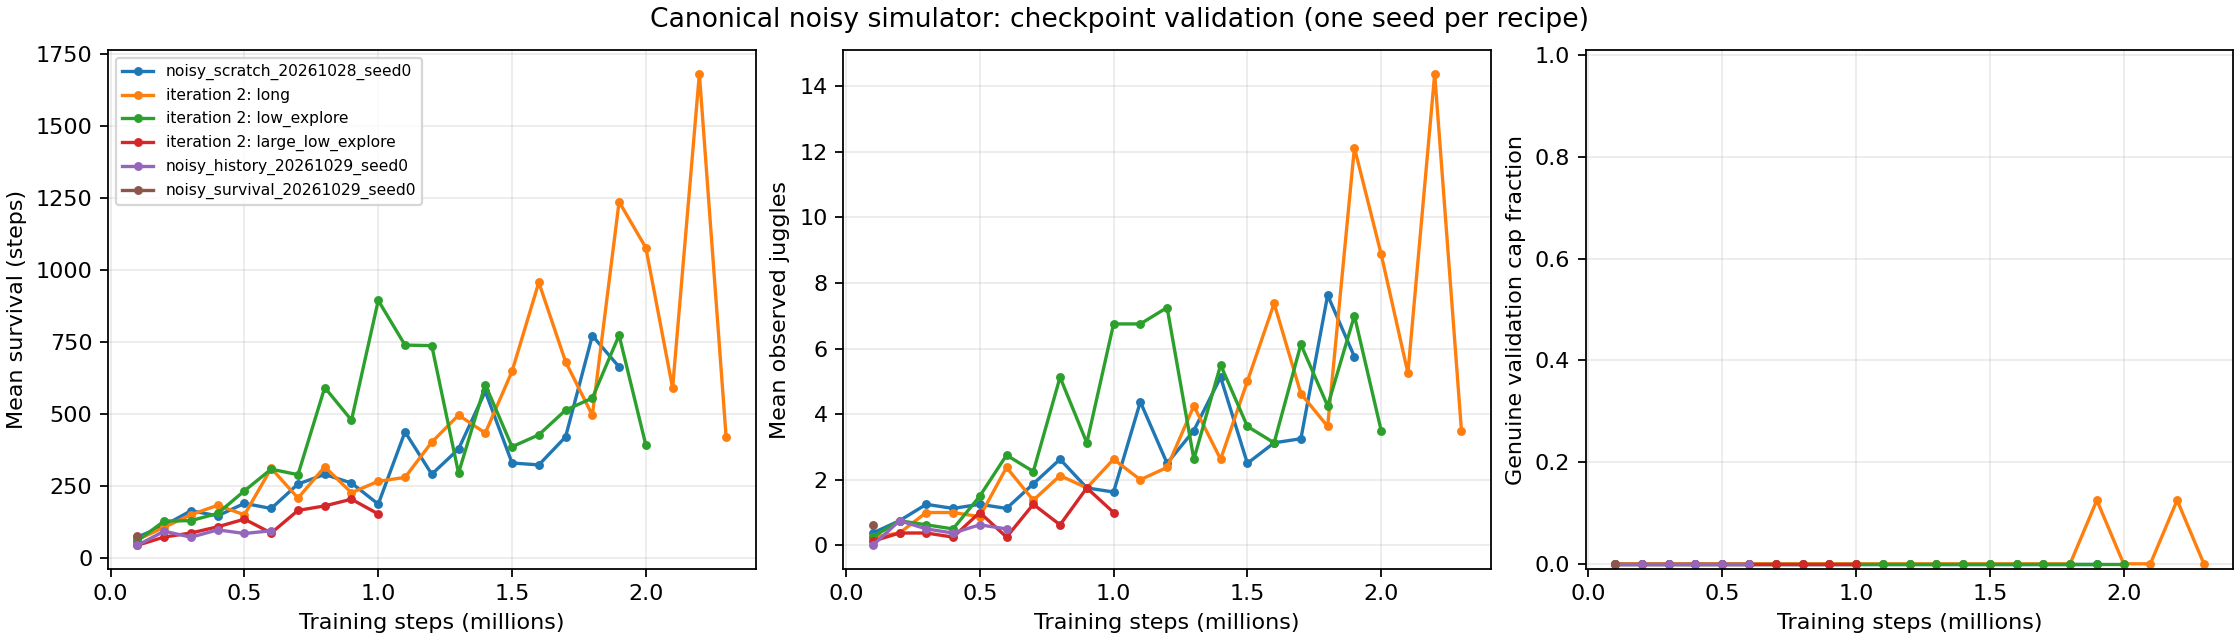
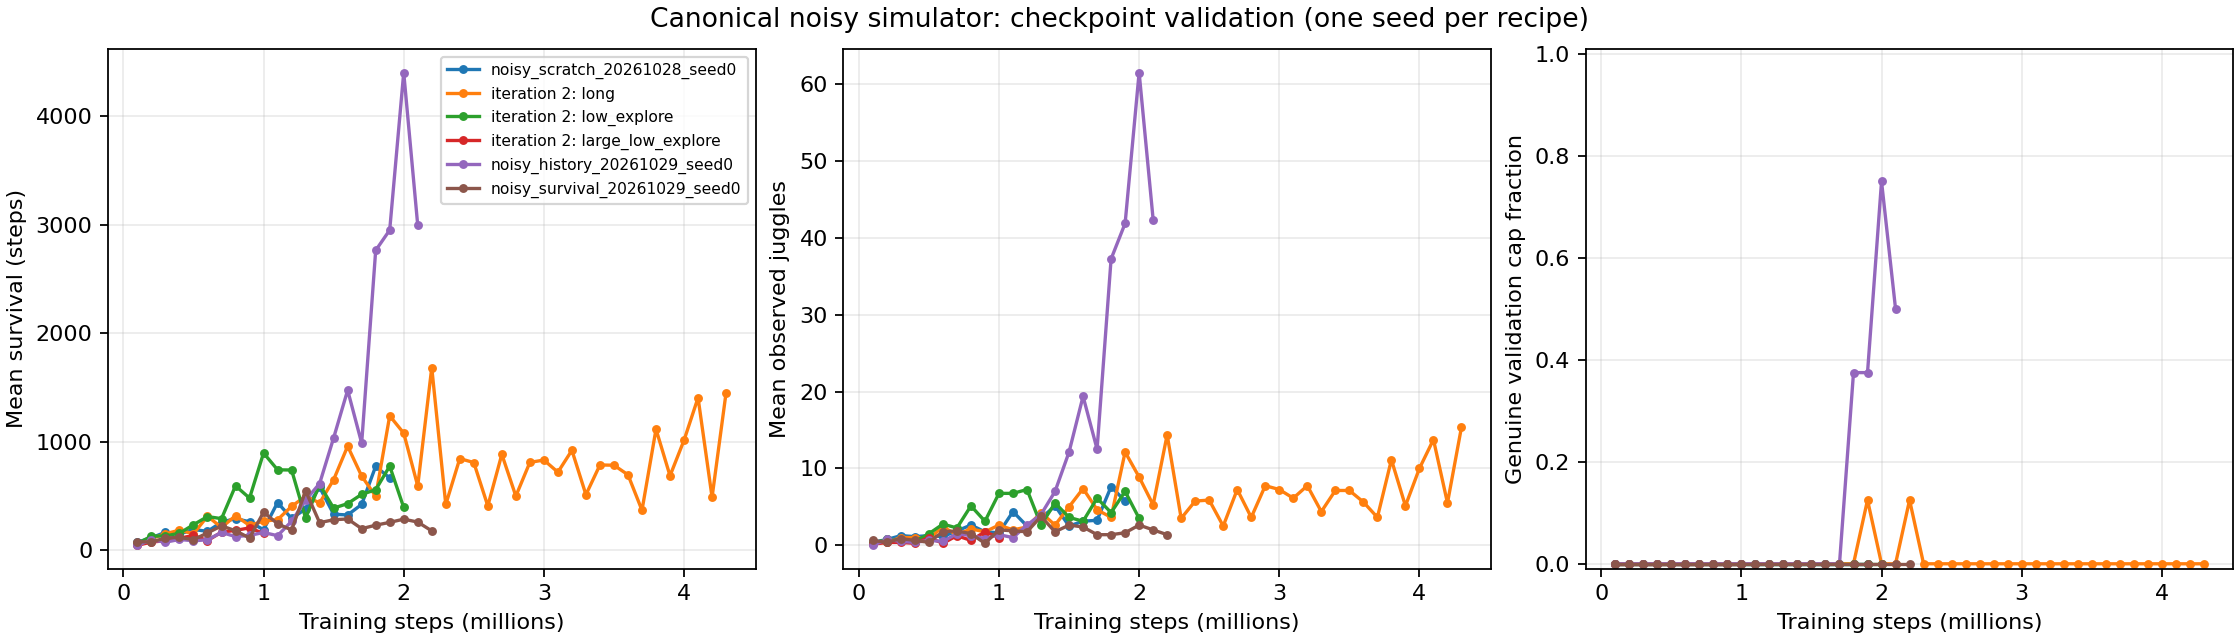
Record history-policy gains and independent survival failures with GIFs

diff --git a/scripts/analysis/juggle_progress.py b/scripts/analysis/juggle_progress.py
@@ -92,13 +92,21 @@ def write_report(roots, out):
             lines.append(f"| {root.name} | {status} | No saved validation | — | — | — |")
     lines += ["", "Separate-start evaluations (selection and benchmark phases labeled):", ""]
     for root, _ in series:
-        for directory, phase in (("final_eval", "final actor benchmark"),
-                                 ("selected_eval", "validation-selected checkpoint benchmark"),
-                                 ("selected_paired_eval", "paired selected checkpoint"),
-                                 ("final_paired_eval", "paired final actor")):
+        phases = [("final_eval", "final actor benchmark"),
+                  ("selected_eval", "validation-selected checkpoint benchmark"),
+                  ("selected_paired_eval", "paired selected checkpoint"),
+                  ("final_paired_eval", "paired final actor")]
+        known = {directory for directory, _ in phases}
+        for result in sorted(root.glob("*/results.json")):
+            directory = result.parent.name
+            if directory not in known and "stretch" not in directory and "diagnostic" not in directory:
+                phases.append((directory, directory.replace("_", " ")))
+        for directory, phase in phases:
             result = root / directory / "results.json"
             if result.exists():
                 payload = json.loads(result.read_text())
+                if "training" not in payload.get("scenarios", {}):
+                    continue
                 s = payload["scenarios"]["training"]["summary"]
                 true_count = (f", {s['mean_true_state_juggles']:.2f} physical-trajectory juggles"
                               if "mean_true_state_juggles" in s else "")

diff --git a/docs/juggling-noisy-progress.md b/docs/juggling-noisy-progress.md
@@ -1,6 +1,6 @@
 # Noisy juggling progress
 
-Generated 2026-10-29T18:52:13.641989+00:00 from saved evaluations; no new rollouts.
+Generated 2026-10-29T20:12:18.125723+00:00 from saved evaluations; no new rollouts.
 
 Validation curves use repeatedly evaluated starts, not independent acceptance tests. Each point is an episode mean for one training seed. Check the CSV for episode counts, seeds and caps. Observed juggle counts use noisy camera positions and a direction-reversal filter. Contact timesteps are not distinct juggles. Cap fractions use the physical-trajectory heuristic when available, otherwise the legacy observed-count heuristic.
 
@@ -11,18 +11,26 @@ Validation curves use repeatedly evaluated starts, not independent acceptance te
 | Run | Runner status | Latest validation step | Mean survival | Mean juggles | Genuine cap fraction |
 |---|---|---:|---:|---:|---:|
 | noisy_scratch_20261028_seed0 | complete | 1,900,000 | 663.4 | 5.75 | 0.0% |
-| noisy_iteration2_20261029_long | training | 2,300,000 | 419.8 | 3.50 | 0.0% |
+| noisy_iteration2_20261029_long | training | 4,300,000 | 1450.6 | 15.38 | 0.0% |
 | noisy_iteration2_20261029_low_explore | interrupted | 2,000,000 | 392.0 | 3.50 | 0.0% |
 | noisy_iteration2_20261029_large_low_explore | interrupted | 1,000,000 | 152.6 | 1.00 | 0.0% |
-| noisy_history_20261029_seed0 | training | 600,000 | 94.2 | 0.50 | 0.0% |
-| noisy_survival_20261029_seed0 | training | 100,000 | 76.4 | 0.62 | 0.0% |
+| noisy_history_20261029_seed0 | training | 2,100,000 | 2992.8 | 42.38 | 50.0% |
+| noisy_survival_20261029_seed0 | training | 2,200,000 | 176.1 | 1.38 | 0.0% |
 
 Separate-start evaluations (selection and benchmark phases labeled):
 
 - [noisy_scratch_20261028_seed0, final actor benchmark](../runs/td3/noisy_scratch_20261028_seed0/final_eval/results.json): 416.1 mean steps, 3.78 observed juggles, 0.0% cap completion; 32 starts from seed 200000, cap 10000.
 - [noisy_scratch_20261028_seed0, paired selected checkpoint](../runs/td3/noisy_scratch_20261028_seed0/selected_paired_eval/results.json): 816.9 mean steps, 7.41 observed juggles, 7.75 physical-trajectory juggles, 0.0% cap completion; 32 starts from seed 300000, cap 10000.
 - [noisy_scratch_20261028_seed0, paired final actor](../runs/td3/noisy_scratch_20261028_seed0/final_paired_eval/results.json): 415.3 mean steps, 3.28 observed juggles, 3.84 physical-trajectory juggles, 0.0% cap completion; 32 starts from seed 300000, cap 10000.
+- [noisy_iteration2_20261029_long, first cap benchmark](../runs/td3/noisy_iteration2_20261029_long/first_cap_benchmark/results.json): 827.9 mean steps, 7.16 observed juggles, 7.53 physical-trajectory juggles, 0.0% cap completion; 32 starts from seed 300000, cap 10000.
+- [noisy_iteration2_20261029_long, milestone 2m benchmark](../runs/td3/noisy_iteration2_20261029_long/milestone_2m_benchmark/results.json): 1017.3 mean steps, 8.03 observed juggles, 9.44 physical-trajectory juggles, 0.0% cap completion; 32 starts from seed 300000, cap 10000.
+- [noisy_iteration2_20261029_long, through3m selected benchmark](../runs/td3/noisy_iteration2_20261029_long/through3m_selected_benchmark/results.json): 920.3 mean steps, 7.81 observed juggles, 8.78 physical-trajectory juggles, 0.0% cap completion; 32 starts from seed 300000, cap 10000.
 - [noisy_iteration2_20261029_low_explore, validation-selected checkpoint benchmark](../runs/td3/noisy_iteration2_20261029_low_explore/selected_eval/results.json): 824.4 mean steps, 7.12 observed juggles, 7.91 physical-trajectory juggles, 0.0% cap completion; 32 starts from seed 400000, cap 10000.
+- [noisy_iteration2_20261029_low_explore, matched history 1m6 benchmark](../runs/td3/noisy_iteration2_20261029_low_explore/matched_history_1m6_benchmark/results.json): 580.2 mean steps, 4.62 observed juggles, 4.88 physical-trajectory juggles, 0.0% cap completion; 32 starts from seed 300000, cap 10000.
+- [noisy_iteration2_20261029_low_explore, milestone 1m benchmark](../runs/td3/noisy_iteration2_20261029_low_explore/milestone_1m_benchmark/results.json): 695.4 mean steps, 5.44 observed juggles, 6.09 physical-trajectory juggles, 0.0% cap completion; 32 starts from seed 300000, cap 10000.
+- [noisy_iteration2_20261029_low_explore, milestone 2m benchmark](../runs/td3/noisy_iteration2_20261029_low_explore/milestone_2m_benchmark/results.json): 664.4 mean steps, 5.25 observed juggles, 6.06 physical-trajectory juggles, 0.0% cap completion; 32 starts from seed 300000, cap 10000.
 - [noisy_iteration2_20261029_large_low_explore, validation-selected checkpoint benchmark](../runs/td3/noisy_iteration2_20261029_large_low_explore/selected_eval/results.json): 225.8 mean steps, 1.62 observed juggles, 1.94 physical-trajectory juggles, 0.0% cap completion; 32 starts from seed 400000, cap 10000.
+- [noisy_history_20261029_seed0, independent 1m6 20k eval](../runs/td3/noisy_history_20261029_seed0/independent_1m6_20k_eval/results.json): 3606.7 mean steps, 46.50 observed juggles, 51.66 physical-trajectory juggles, 0.0% cap completion; 32 starts from seed 500000, cap 20000.
+- [noisy_history_20261029_seed0, milestone 1m6 benchmark](../runs/td3/noisy_history_20261029_seed0/milestone_1m6_benchmark/results.json): 3519.4 mean steps, 45.16 observed juggles, 51.31 physical-trajectory juggles, 9.4% cap completion; 32 starts from seed 300000, cap 10000.
 
 The final-start benchmark is reused across recipes. A selected policy requires untouched seeds and longer horizons before acceptance. Bounded survival does not prove infinite survival.

diff --git a/notes/scratch/experiments/2026-10-29_20-15_history-benchmark-independent.md b/notes/scratch/experiments/2026-10-29_20-15_history-benchmark-independent.md
@@ -1,0 +1,44 @@
+# Scratch history policy: matched and independent evaluations
+
+Recorded 2026-10-29 15:15:24 -0500; evaluation timestamps are available in local artifacts. All evaluations below completed; three training runs remain active. No simulator changes or new training launches in this task.
+
[1 lines of base64/hex data omitted]
+
+| Frozen policy | Seeds / horizon | Mean steps | Median | Physical juggles | Genuine caps |
+|---|---|---:|---:|---:|---:|
+| History 1.6M | 300000–300031 / 10000 | 3519.375 | 2103 | 51.3125 | 3/32 |
+| Matched feed-forward low exploration 1.6M | Same | 580.21875 | 394 | 4.875 | 0/32 |
+| Baseline validation-selected through 3M (2.2M checkpoint) | Same | 920.3125 | 634.5 | 8.78125 | 0/32 |
+| History 1.6M, independent test | 500000–500031 / 20000 | 3606.6875 | 2010.5 | 51.65625 | 0/32 |
+
+The shared benchmark has been reused across recipes. Paired history minus matched control mean difference: 2939.15625 steps; paired bootstrap 10,000 resamples, NumPy default_rng(42), 95% interval [1760.0390625, 4203.165625]; 25/32 wins. Single training seed; history architecture/trainer changes both actor and critic context, so this does not isolate critic memory. Physical juggle counts use read-only body trajectories and a heuristic, not exact distinct-contact instrumentation.
+
+The checkpoint was fixed before the independent test; no earlier noisy-campaign result used those 32 seeds. All 32 independent starts failed before 20k (minimum495, maximum16509); two lasted beyond10k. These seeds are now consumed research tests and must not be described as untouched for future candidates. No matched independent control was run.
+
+A deliberately favorable shared-benchmark cap seed300017 was extended to20k: failed at17049 steps (852.45 simulated seconds),235 physical juggles. All eight saved trajectory arrays exactly match the original first10000 steps. This is a selected demonstration, not aggregate evidence. Baseline selected seed10004 failed at5366; its eight arrays matched the original5000-step prefix.
+
+## Published figures and data
+
+![Selected history episode final20seconds](../../../docs/assets/juggling/noisy-history-selected-end.gif)
+
+Final20seconds of selected seed300017, including failure after17049steps. Generated2026-10-29 from the saved evaluation; compacted160×357,10fps,64colors, duration preserved.
+
+![First shared benchmark episode final20seconds](../../../docs/assets/juggling/noisy-history-benchmark-first.gif)
+
+A different episode: first benchmark seed300000 failed at785steps. This clip illustrates a failure alongside the favorable selected example.
+
+[Per-start matched data](../../../docs/juggling-history-benchmark.csv), [independent data](../../../docs/juggling-history-independent.csv), [candidate provenance](../../../docs/juggling-candidate.json), [learning curves](../../../docs/juggling-noisy-progress.md). Checkpoint files and raw rollouts remain local and are ignored by Git.
+
+## Raw evidence and reproduction
+
+All roots below are under `runs/td3/`:
+- `noisy_history_20261029_seed0/milestone_1m6_benchmark/results.json`
+- `noisy_history_20261029_seed0/independent_1m6_20k_eval/results.json`
+- `noisy_history_20261029_seed0/milestone_1m6_selected_stretch/results.json`
+- `noisy_iteration2_20261029_low_explore/matched_history_1m6_benchmark/results.json`
+- `noisy_iteration2_20261029_long/through3m_selected_benchmark/results.json`
+- `noisy_iteration2_20261029_long/through3m_selected_stretch/results.json`
+
+Use `python -m scripts.td3.juggle_survival --help` for frozen evaluation arguments. Match the checkpoint above, scenario-set training, recorded seed range, episode count32 and horizon; choose a new output directory. The saved args/config and rma_meta are required beside model.pth. Never use this checkpoint to initialize new training.
+
+The progress report now discovers additional saved benchmark phases while excluding selected stretch/diagnostic phases. Regenerated from saved data, without new rollouts. This task validates artifact links, logbook anchors/TOCs and whitespace; earlier implementation tests are historical, not rerun here.

diff --git a/docs/experiment_logbook.md b/docs/experiment_logbook.md
@@ -6,6 +6,7 @@ Entries and contents are ordered newest first; IDs remain permanent.
 
 ## Table of contents
 
+- [E019 — History improves survival; fresh 20k test still fails](#e019)
 - [E018 — Aim-point and critic-action-context CPU smokes pass](#e018)
 - [E017 — Reject a fixed observer after negative offline estimates](#e017)
 - [E016 — Interrupt low-exploration pilot and launch survival-focused scratch trial](#e016)
@@ -24,6 +25,20 @@ Entries and contents are ordered newest first; IDs remain permanent.
 - [E003 — Original-sensing fine-tuning regression](#e003)
 - [E002 — Clean-simulation iterations and failed transfer](#e002)
 - [E001 — Initial sustained-juggling studies](#e001)
+
+<a id="e019"></a>
+
+## E019 — 2026-10-29 15:15:24 -0500 — History improves survival; fresh 20k test still fails
+
+The scratch 50-step-history policy improves matched bounded survival but fails every independent 20k start.
+
+**Completed:** At1.6M, shared32-start10k benchmark mean3519.375 and3/32 genuine caps versus matched feed-forward580.21875 and0/32. Fixed checkpoint independent seeds500000–500031: mean3606.6875, median2010.5,0/32 at20k; two exceed10k. These previously unused seeds are now consumed. One selected favorable seed lasted17049steps with235 physical juggles before failing. Single training seed; shared benchmark reused; no reliability or indefinite-survival claim.
+
+**Evidence:** [Detailed record](../notes/scratch/experiments/2026-10-29_20-15_history-benchmark-independent.md), [matched CSV](juggling-history-benchmark.csv), [independent CSV](juggling-history-independent.csv), [checkpoint provenance](juggling-candidate.json), [live curves](juggling-noisy-progress.md). Baseline selected through3M averages920.3125 on the shared benchmark. All three learners remain running; no simulator or randomization changes.
+
+![Selected episode final20seconds](assets/juggling/noisy-history-selected-end.gif)
+
+Selected seed300017 ending in failure; distinct first-benchmark failed episode is embedded in the detailed record. GIFs generated2026-10-29, duration preserved. [A020](agent_logbook.md#a020).
 
 <a id="e018"></a>
 

diff --git a/docs/agent_logbook.md b/docs/agent_logbook.md
@@ -6,6 +6,7 @@ Entries and contents are ordered newest first; IDs remain permanent.
 
 ## Table of contents
 
+- [A020 — Publish history milestone and independent failure test](#a020)
 - [A019 — Prepare independently testable actor and critic controls](#a019)
 - [A018 — Evaluate and isolate an unsuccessful state-estimator candidate](#a018)
 - [A017 — Reassign the plateauing pilot to survival-focused scratch training](#a017)
@@ -25,6 +26,16 @@ Entries and contents are ordered newest first; IDs remain permanent.
 - [A003 — Restore original sensing and matched comparison](#a003)
 - [A002 — Clean diagnostics and evaluation](#a002)
 - [A001 — Continuing-task implementation](#a001)
+
+<a id="a020"></a>
+
+## A020 — 2026-10-29 15:15:24 -0500 — Publish history milestone and independent failure test
+
+Codex evaluated frozen scratch policies, preserved a stronger research candidate and published both favorable and failed rollout evidence.
+
+**Work:** Matched1.6M history/control benchmark, baseline through3M selection, extended selected rollouts and a checkpoint-locked independent32-start20k test. [E019](experiment_logbook.md#e019) and [detailed record](../notes/scratch/experiments/2026-10-29_20-15_history-benchmark-independent.md) document completed results and limits. Added portable per-start CSVs and hashed local checkpoint pointer; it is never a training initialization source. Extended saved-evaluation discovery in the progress report and regenerated curves.
+
+**Status:** Not solved:0/32 independent20k caps. Baseline, history and survival scratch learners remain active. No sensing, physics, control or randomization modifications. Published two compact GIFs showing different episodes. Documentation/link/anchor/TOC and whitespace checks performed for publication; no expensive training launched for documentation.
 
 <a id="a019"></a>
 

diff --git a/docs/assets/juggling/README.md b/docs/assets/juggling/README.md
@@ -34,3 +34,7 @@ The clean policy is not yet robust to the simulated sensing conditions needed fo
 ## First bounded noisy survival milestone
 
 Baseline 1.9M, specifically selected successful validation seed 10005: [first 10 seconds](noisy-first-cap-start.gif), [final 20 seconds](noisy-first-cap-end.gif), with a time gap between clips. It completed 5k then failed at 6,859 steps (75 physical-trajectory juggles). Only 1/8 validation starts capped; 0/32 shared 10k starts capped. These 2026-10-29 clips illustrate one favorable episode, not reliability. [E015](../../experiment_logbook.md#e015).
+
+## Scratch history milestone
+
+[Selected episode final20seconds](noisy-history-selected-end.gif): seed300017 survived17049steps with235 physical juggles, then failed. [First benchmark episode final20seconds](noisy-history-benchmark-first.gif): different seed300000 failed at785steps. Generated2026-10-29. Shared benchmark3/32 at10k; independent test0/32 at20k. These individual episodes do not establish reliability. [E019](../../experiment_logbook.md#e019).

diff --git a/notes/scratch/experiments/INDEX.md b/notes/scratch/experiments/INDEX.md
@@ -76,3 +76,5 @@ Format: `- YYYY-MM-DD HH:MM | topic | one-sentence outcome | [file](path)`
 - 2026-10-29 19:09 | Fixed observer negative | Untuned nominal-physics filter has worse saved-state estimation error; no policy integration or GPU trial | [file](2026-10-29_19-09_fixed-observer-negative.md)
 
 - 2026-10-29 19:40 | Actor/critic CPU smoke controls | Two opt-in scratch variants pass CPU update/reload checks; default eager outputs/gradients match prior code exactly; full trials unlaunched | [file](2026-10-29_19-40_actor-critic-cpu-smokes.md)
+
+- 2026-10-29 20:15 | History matched and independent tests | Shared mean3519; independent20k mean3607,0/32 caps; selected episode17049steps | [file](2026-10-29_20-15_history-benchmark-independent.md)
